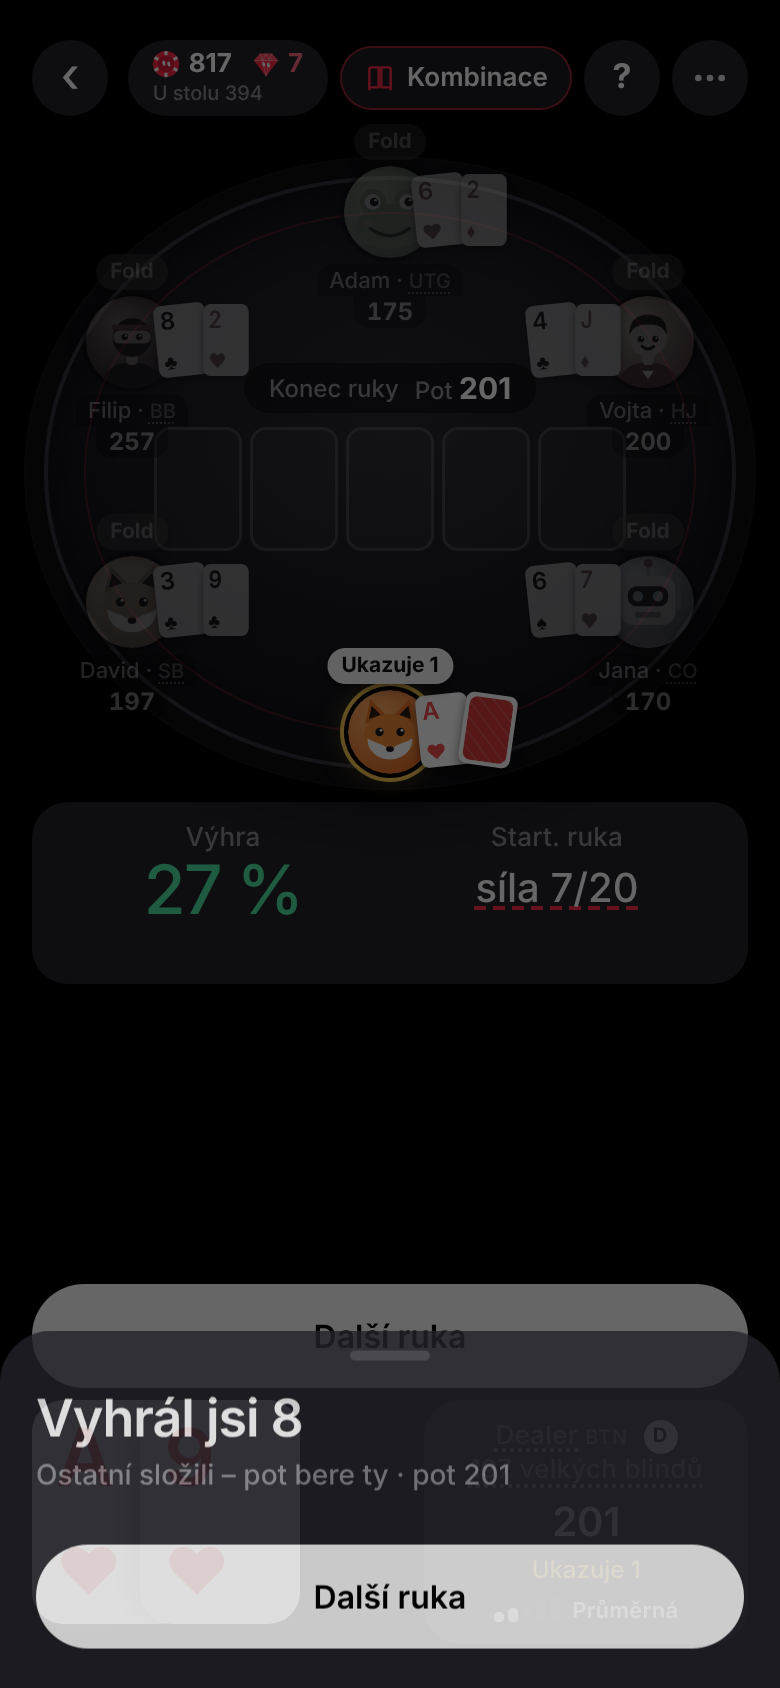
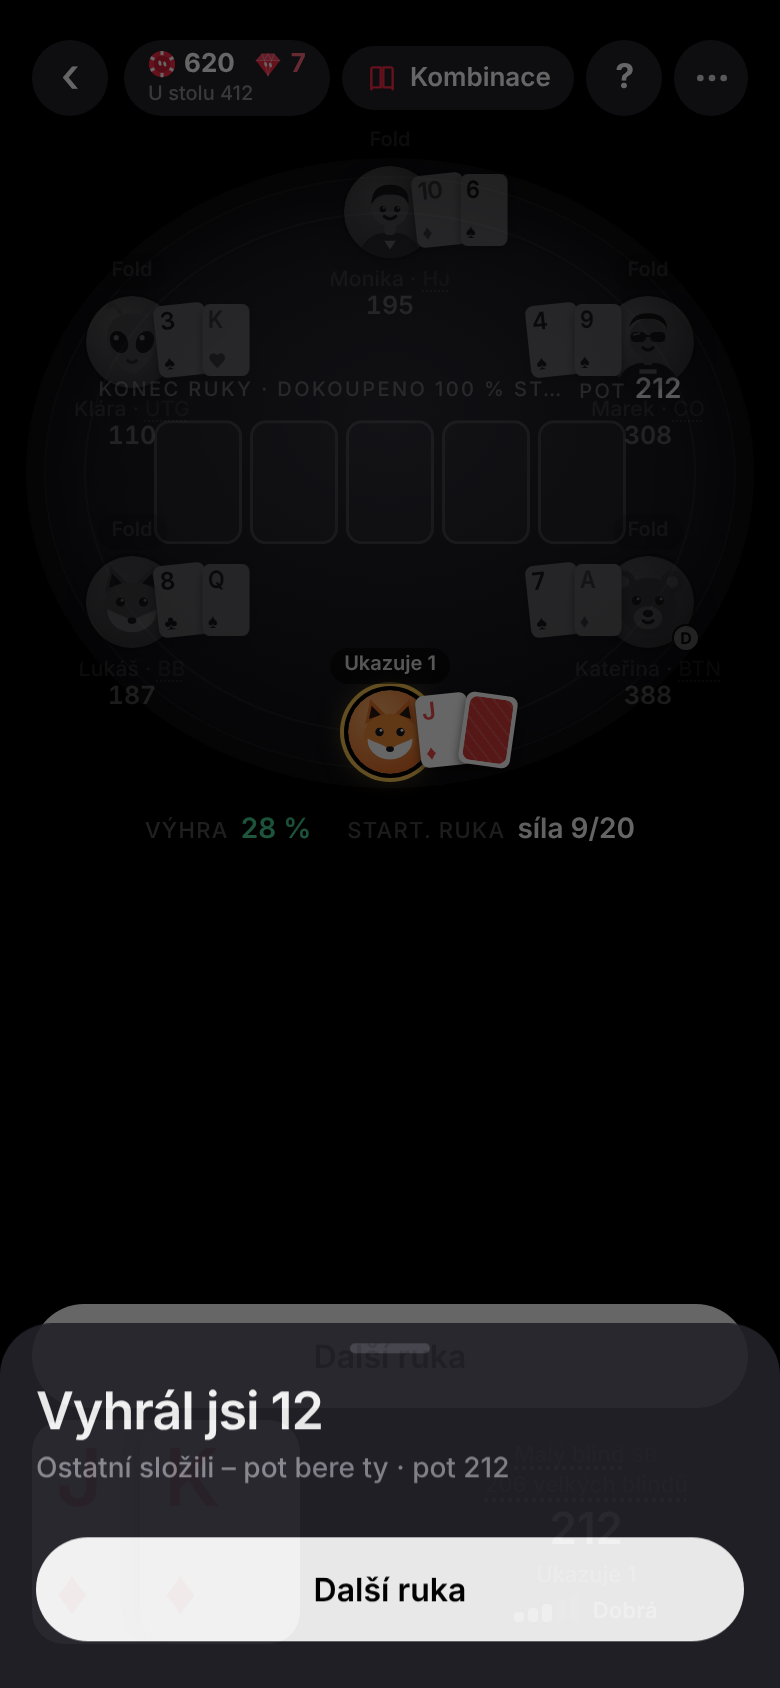
v29 (1.9.1): minimalistický stůl – tlumené popisky, bez rámečků, info panel na jeden řádek, kompaktní showdown

diff --git a/style.css b/style.css
@@ -1159,3 +1159,46 @@ body[data-cfelt="midnight"]{--f1:#1d2d63;--f2:#080d24;--rail1:#232a44;--rail2:#0
 .felt .board .card.back::before{display:none}
 .felt.many{height:clamp(276px,44vh,340px)}
 @media (max-height:740px){.felt.many{height:clamp(270px,43vh,300px)}}
+/* ===== v29 (1.9.1): minimalistický stůl – jen to podstatné, hodně prostoru ===== */
+.felt::after{border-color:rgba(255,255,255,.05)}
+.felt::before{box-shadow:0 0 0 8px var(--rail2),0 0 0 9px rgba(255,255,255,.05),inset 0 0 0 1px rgba(255,255,255,.04),inset 0 12px 34px rgba(0,0,0,.5),0 18px 40px rgba(0,0,0,.55)}
+.felt .opp .name{background:none;padding:0;margin-top:4px;font-size:10.5px;line-height:13px;color:rgba(255,255,255,.42);font-weight:500;letter-spacing:.01em}
+.felt .opp .name .pos,.felt .opp .name{font-size:10.5px}
+.felt .opp .pos{color:rgba(255,255,255,.28)!important;font-weight:500!important}
+.felt .opp .stk{background:none;padding:0;font-size:12.5px;line-height:15px;font-weight:600;color:rgba(255,255,255,.9)}
+.felt .opp .stk em{background:none;color:var(--red);font-size:9px;letter-spacing:.04em;padding:0;text-transform:uppercase}
+.felt .avatar,.seat-me .avatar{box-shadow:0 0 0 1.5px rgba(0,0,0,.6),0 6px 14px rgba(0,0,0,.45)}
+.felt .opp.turn .avatar,.seat-me.turn .avatar{box-shadow:0 0 0 2px #000,0 0 0 3.5px rgba(255,255,255,.85);animation:none}
+.felt .opp.folded{opacity:.3;filter:grayscale(1)}
+.felt .chip{background:rgba(0,0,0,.55);color:rgba(255,255,255,.85);font-weight:600;font-size:10px;padding:2px 7px;box-shadow:none}
+.felt .chip[data-k="fold"],.felt .chip[data-k="check"],.felt .chip[data-k="call"],.felt .chip[data-k="blind"],.felt .chip[data-k="raise"],.felt .chip[data-k="bet"]{background:rgba(0,0,0,.55);color:rgba(255,255,255,.8)}
+.felt .chip[data-k="fold"]{color:rgba(255,255,255,.4)}
+.felt .chip[data-k="allin"]{background:var(--red);color:#fff}
+.felt .dealer{width:14px;height:14px;font-size:8px;border-width:1.5px;right:-3px;bottom:-2px}
+.bet{background:none;padding:0;gap:3px;font-weight:600;font-size:11px;color:rgba(255,255,255,.85)}
+.felt .pot-row{background:none;padding:0;gap:6px}
+.felt .pot-row .street{font-size:10px;letter-spacing:.12em;text-transform:uppercase;color:rgba(255,255,255,.3)}
+.felt .pot{font-size:14px;font-weight:600;color:rgba(255,255,255,.9)}
+.felt .pot::before{font-size:10px;letter-spacing:.12em;text-transform:uppercase;color:rgba(255,255,255,.3)}
+/* informační panel → jeden jemný řádek */
+#scr-game .odds{display:flex;justify-content:center;align-items:baseline;gap:18px;background:none;padding:0;margin:2px 0 0;min-height:0}
+#scr-game .odds-cell{display:flex;align-items:baseline;gap:6px}
+#scr-game .odds .lbl{font-size:11px;letter-spacing:.06em;text-transform:uppercase;color:rgba(255,255,255,.32)}
+#scr-game .odds .big,#scr-game .odds .mid{font-size:14px;font-weight:600;letter-spacing:0;color:rgba(255,255,255,.88)}
+#scr-game .odds .big.win{color:var(--green)}
+#scr-game .odds .mid .gl{text-decoration:none;border:0}
+#scr-game .odds-sub{display:none}
+/* spodek: méně rámečků */
+.hero-panel{background:transparent;box-shadow:inset 0 0 0 1px rgba(255,255,255,.07);gap:2px}
+.hero-panel.turn{box-shadow:inset 0 0 0 1.5px rgba(255,255,255,.7)}
+.hero-panel .lbl{font-size:11px;line-height:1.35;color:rgba(255,255,255,.35)}
+.hero-panel .lbl small{color:rgba(255,255,255,.25)}
+.hero-panel .stack{font-size:22px;font-weight:600}
+.hero-last{color:rgba(255,255,255,.5);font-size:11px}
+#scr-game .sd-strip{background:none;padding:2px 4px;gap:4px}
+.kbtn{box-shadow:none!important;border-color:transparent!important;background:var(--panel2)!important}
+#scr-game .sd-strip{flex-direction:row;flex-wrap:wrap;justify-content:center;gap:4px 14px;margin-top:0}
+#scr-game .sd-strip .sd-c{display:none}
+#scr-game .sd-row{gap:6px;font-size:12px;color:rgba(255,255,255,.4);padding:0;border:0;background:none}
+#scr-game .sd-row .sd-n{color:rgba(255,255,255,.5);width:auto}
+#scr-game .sd-row.win,#scr-game .sd-row.win .sd-n{color:#fff}

diff --git a/table.js b/table.js
@@ -73,7 +73,7 @@
   function layout(felt, seats) {
     const n = seats.length; if (!felt || !n) return;
     const g = geo(felt, n), fr = felt.getBoundingClientRect();
-    const bd = felt.querySelector('.board'); let board = null;
+    const bd = felt.querySelector('.table') || felt.querySelector('.board'); let board = null;
     if (bd) { const r = bd.getBoundingClientRect(); board = { l: r.left - fr.left, r: r.right - fr.left, t: r.top - fr.top, b: r.bottom - fr.top }; }
     felt.classList.toggle('many', g.many);
     seats.forEach((s, k) => {

diff --git a/sw.js b/sw.js
@@ -1,7 +1,7 @@
 /* Service worker – offline cache. Při změně souborů zvyš VERSION.
    Nová verze se nainstaluje na pozadí (čerstvé soubory, ne z HTTP cache), převezme stránku
    a aplikace ukáže oznámení „Nová verze je připravená – Obnovit“. */
-const VERSION = 'v28';
+const VERSION = 'v29';
 const CACHE = 'poker-trener-' + VERSION;
 const FILES = [
   './', './index.html', './style.css', './i18n.js', './engine.js', './leagues.js', './table.js', './app.js', './manifest.webmanifest',

diff --git a/app.js b/app.js
@@ -3,7 +3,7 @@
   'use strict';
   const $ = id => document.getElementById(id);
   const t = (k, p) => I18N.t(k, p);
-  const APP_VERSION = '1.9.0', BUILD = 'v28';
+  const APP_VERSION = '1.9.1', BUILD = 'v29';
   const FAST = () => !!window.__FAST;
   const reduced = () => window.matchMedia && matchMedia('(prefers-reduced-motion: reduce)').matches;
   const noAnim = () => FAST() || reduced();
